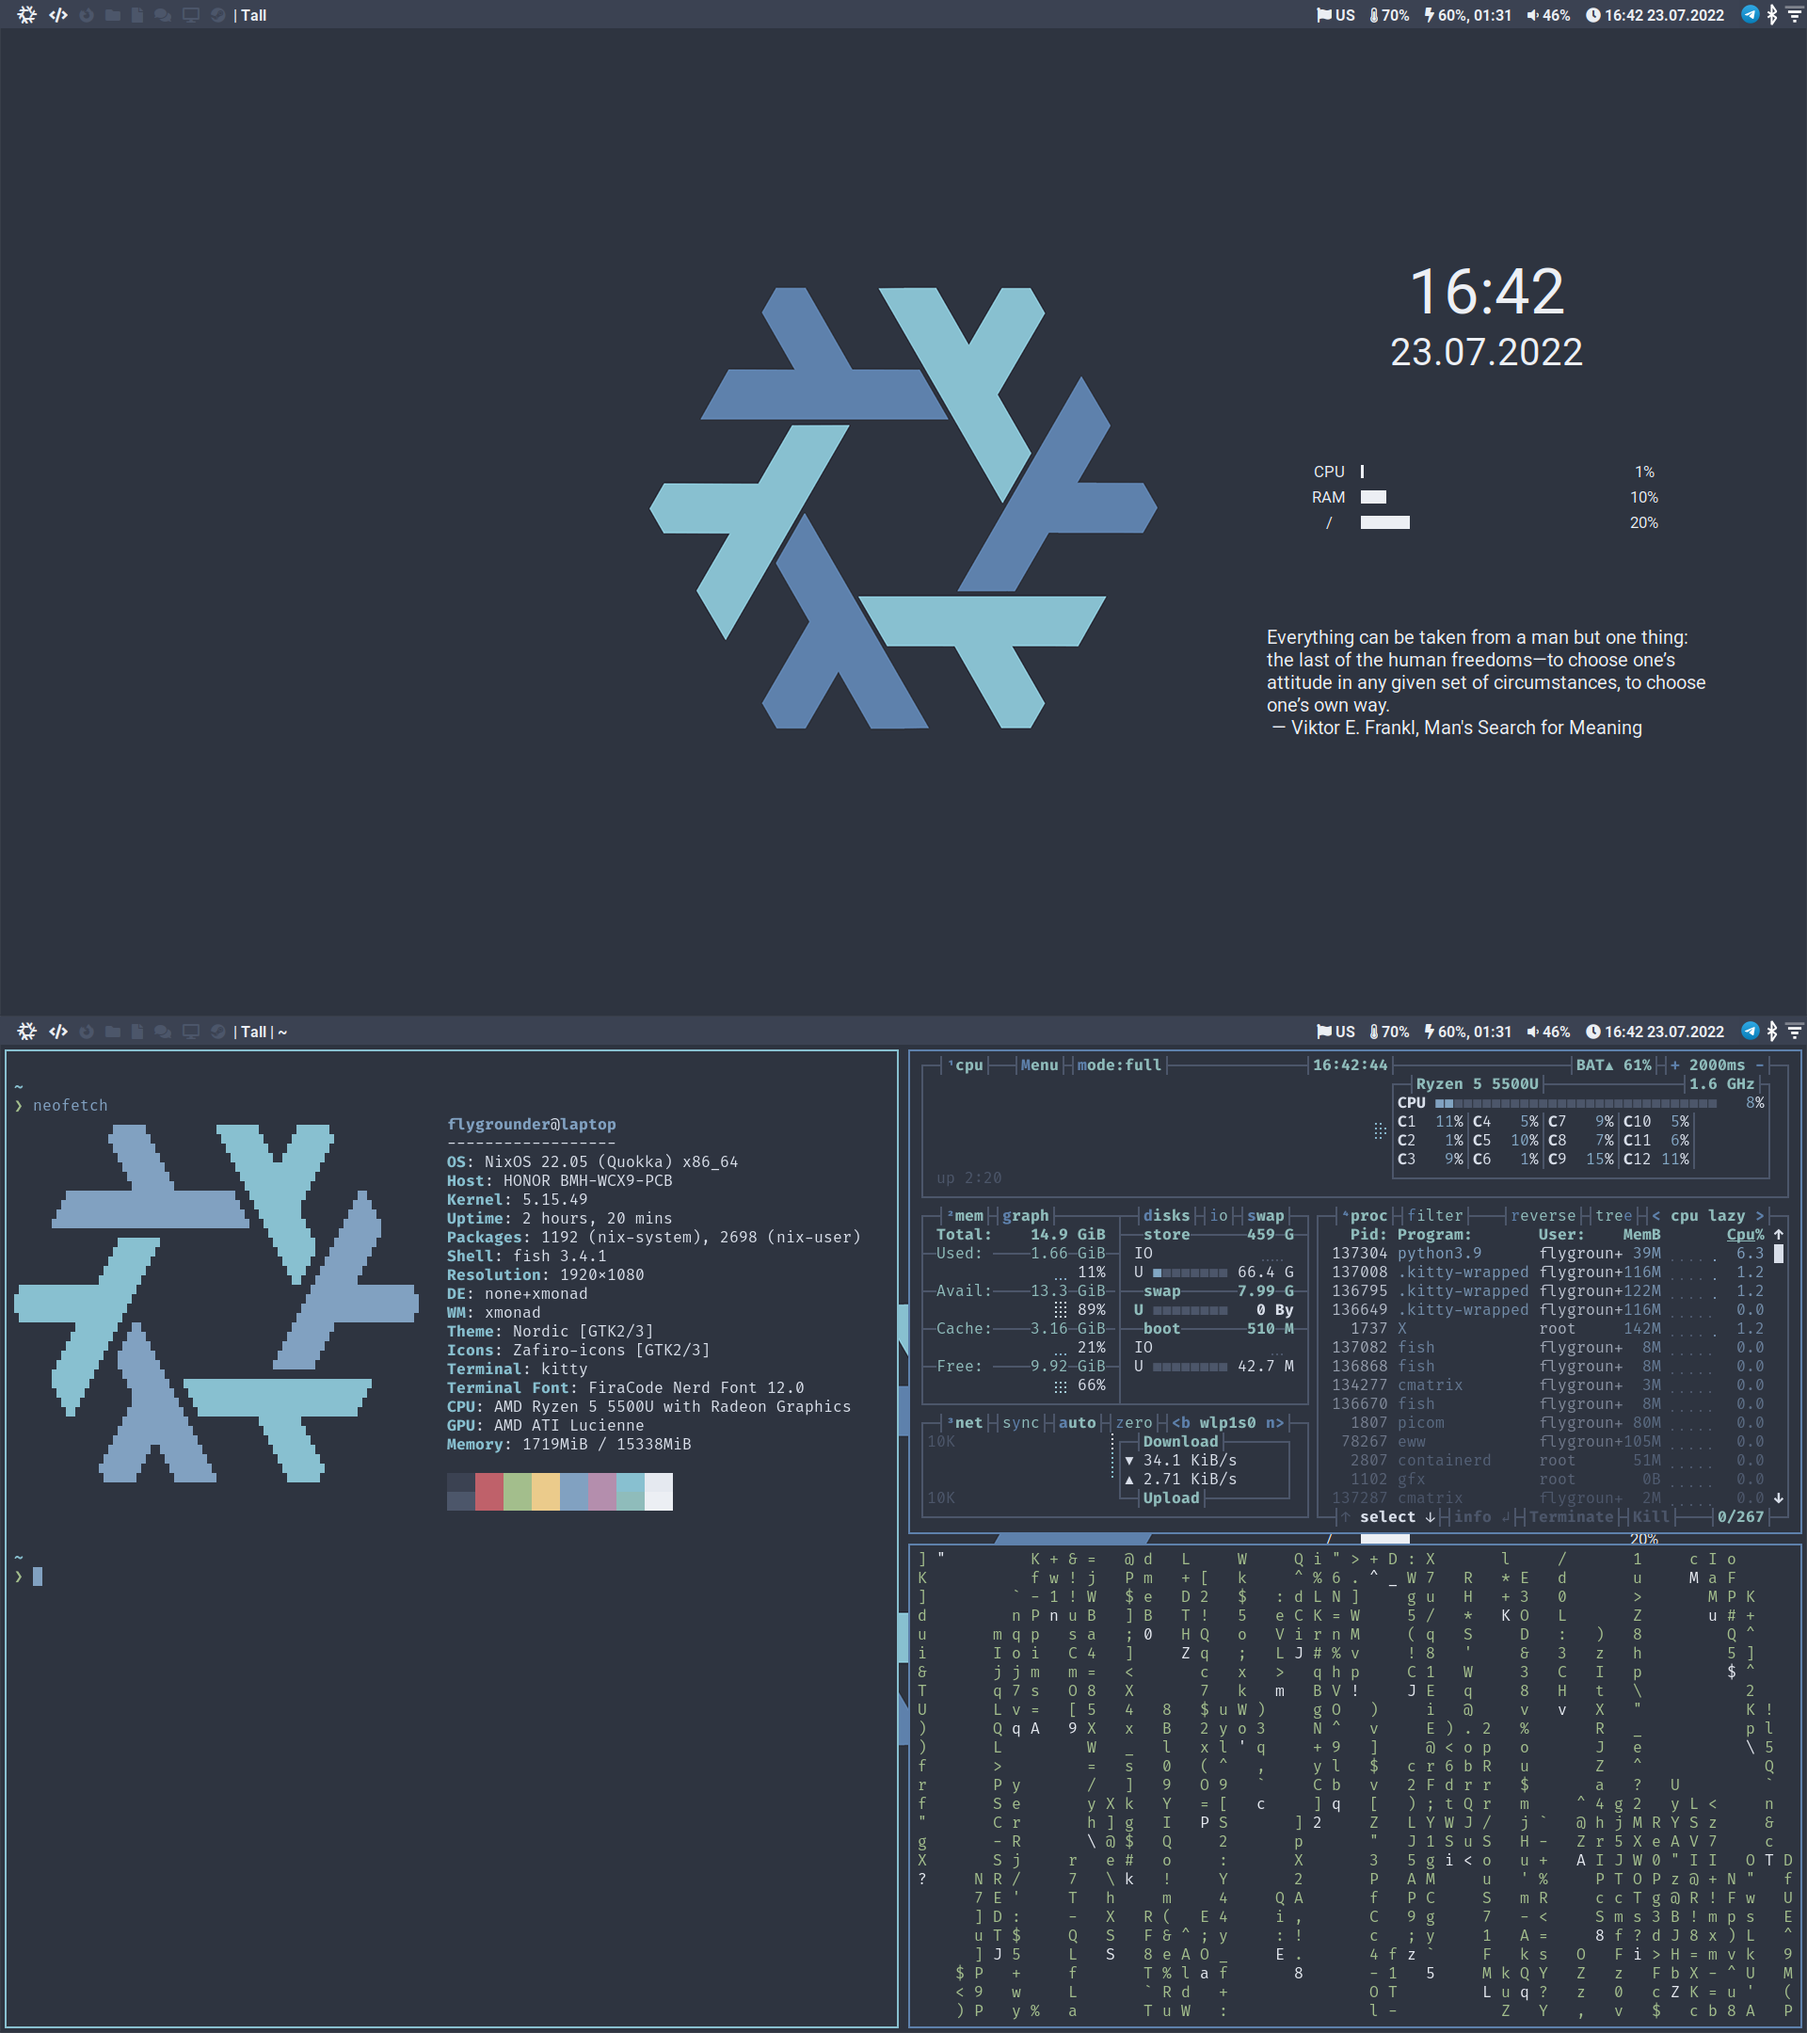
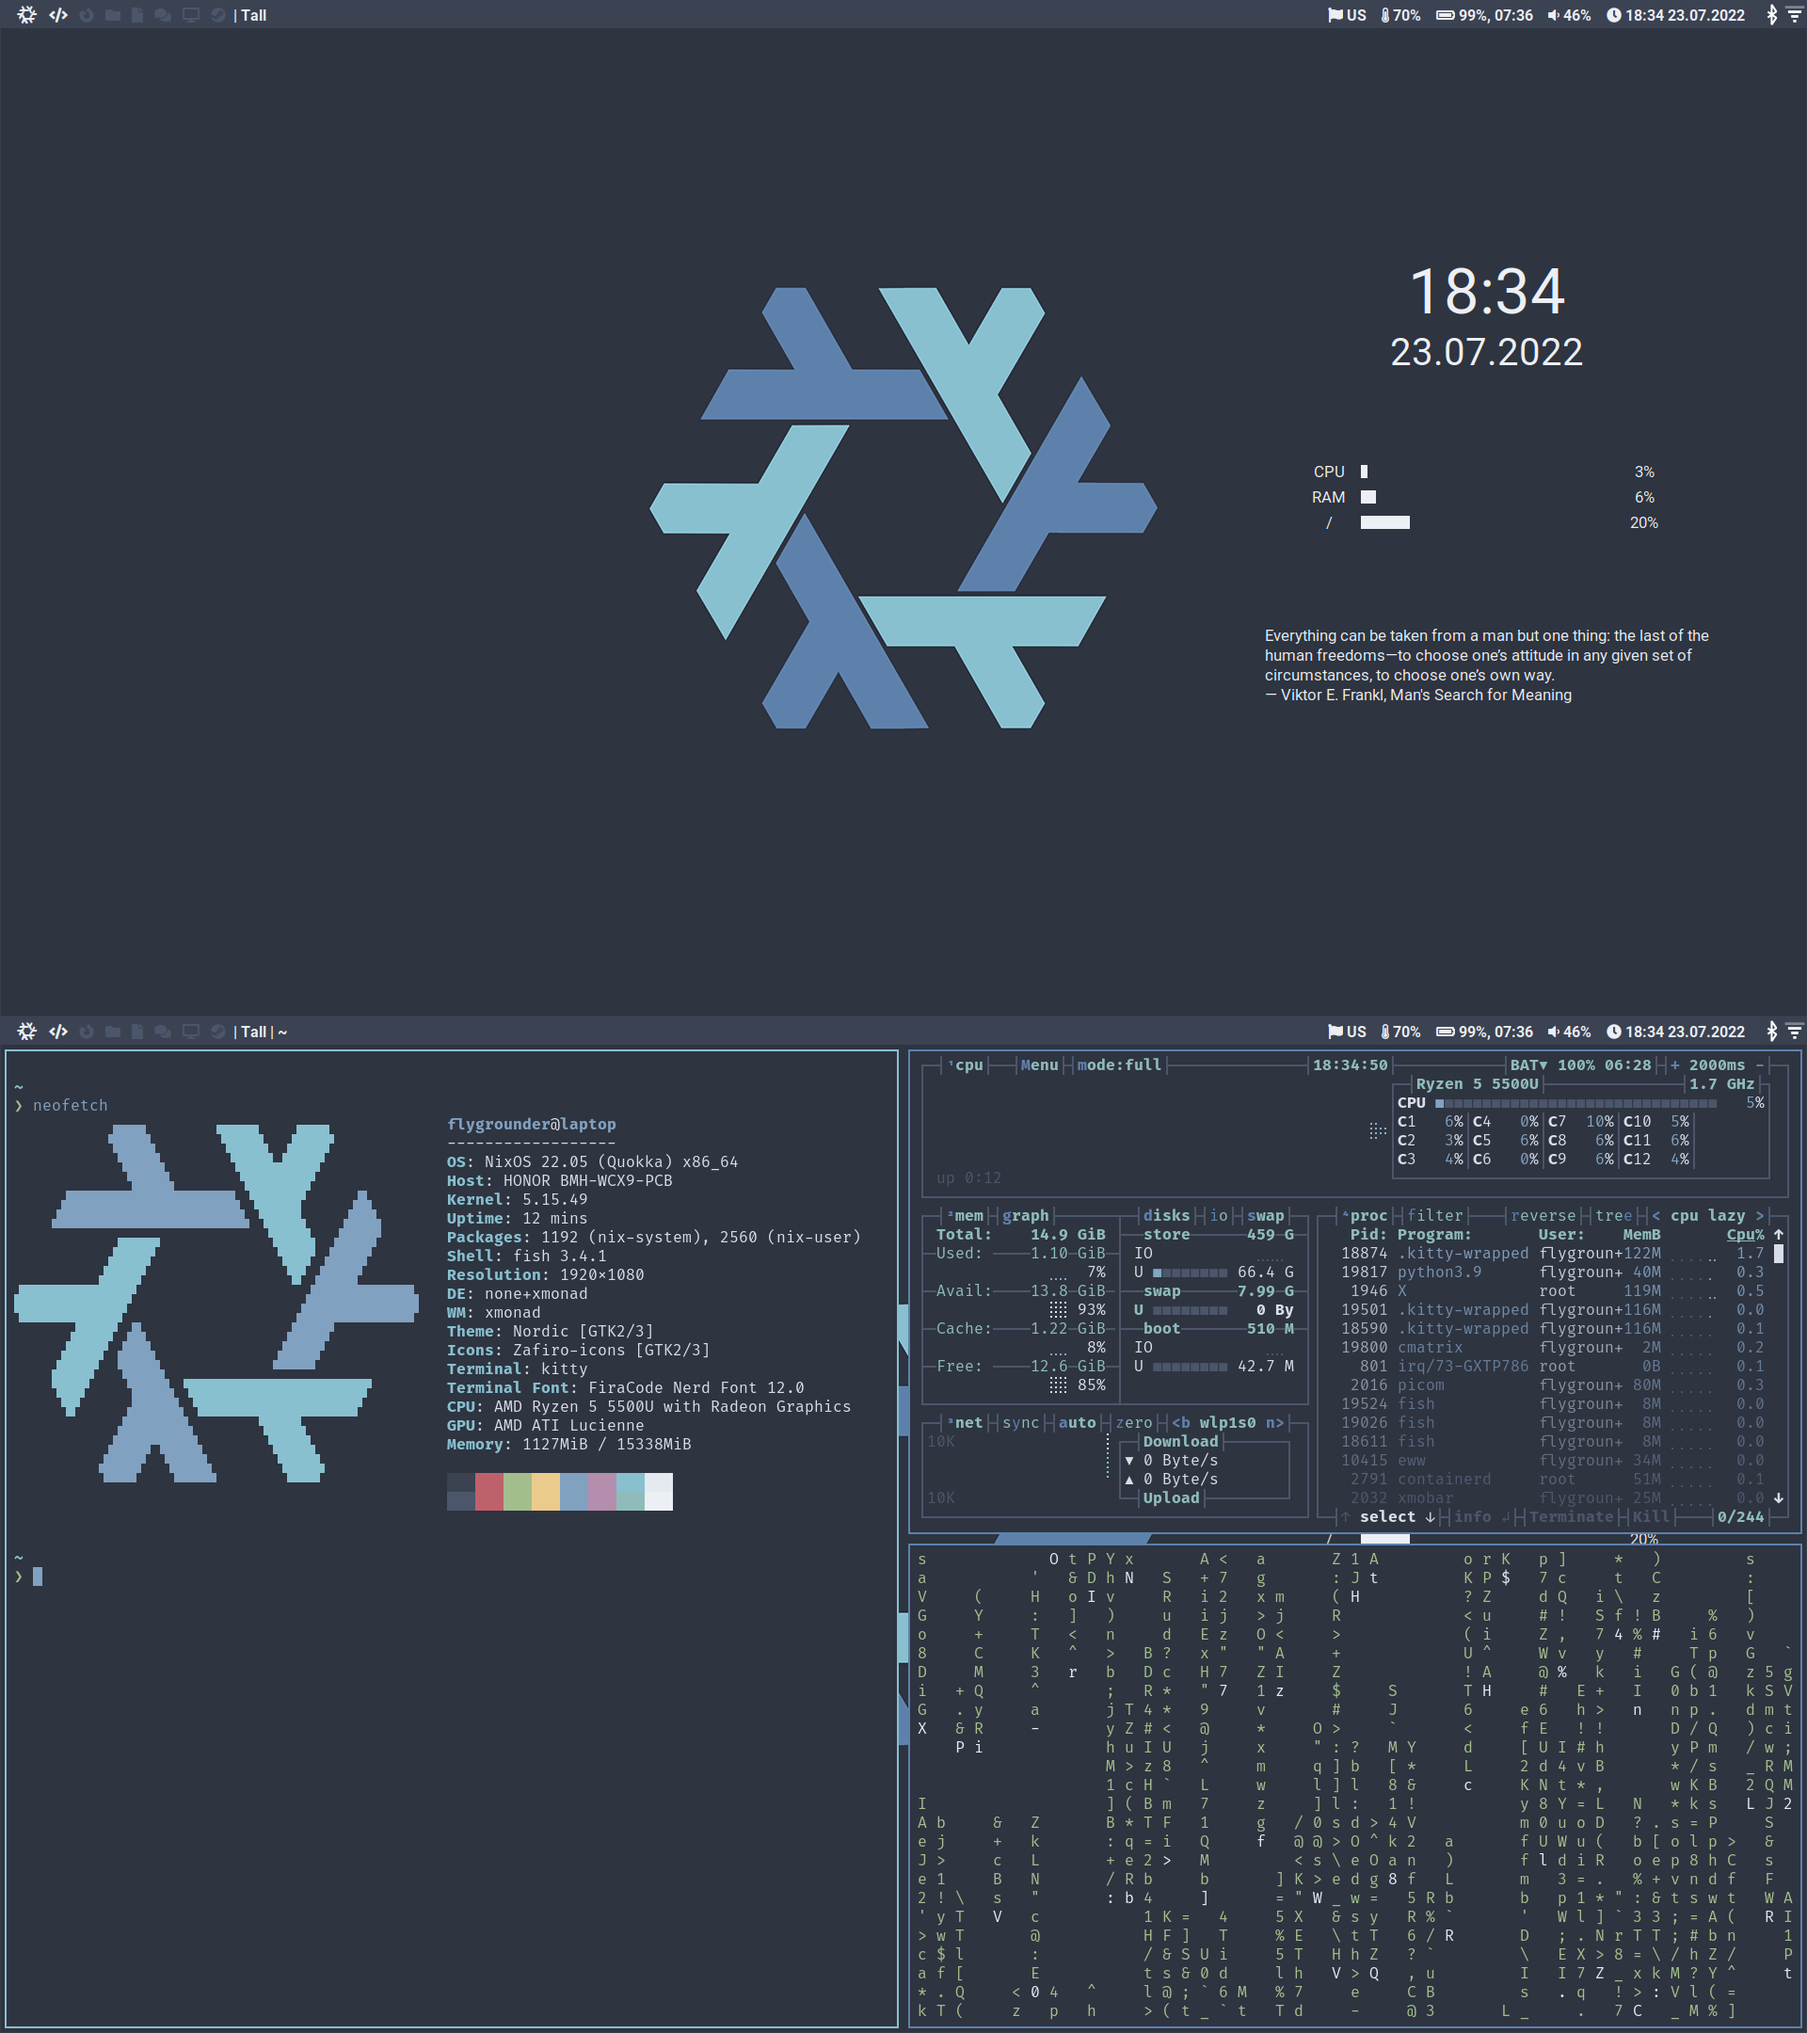
Many small fixes

diff --git a/dotfiles/eww/eww.scss b/dotfiles/eww/eww.scss
@@ -48,5 +48,5 @@ window {
 
 .quote {
     margin-top: 7rem;
-    font-size: 1.5rem;
+    font-size: 1.25rem;
 }

diff --git a/dotfiles/scripts/battery.py b/dotfiles/scripts/battery.py
@@ -38,13 +38,14 @@ def check_bat() -> BatCheckResult:
     env['LC_ALL'] = 'C'
     result = subprocess.run(['acpi', '-b'], capture_output=True, text=True, env=env)
     output = result.stdout.strip()
-
-    matches = re.findall(r"Battery \d+: (?P<status>Discharging|Charging), (?P<charge>\d+)%, (?P<left>\d\d:\d\d):\d\d", output)[-1]
+    matches = re.findall(r"Battery \d+: (?P<status>Discharging|Charging|Full), (?P<charge>\d+)%(, (?P<left>\d\d:\d\d):\d\d)?", output)[-1]
     if matches is None:
         raise IOError('Failed to get battery status')
     status = matches[0]
     charge = int(matches[1])
-    left = matches[2]
+    left = matches[3]
+    if left == '':
+        left = 'Full'
     return BatCheckResult(status=status, charge=charge, left=left)
 
 
